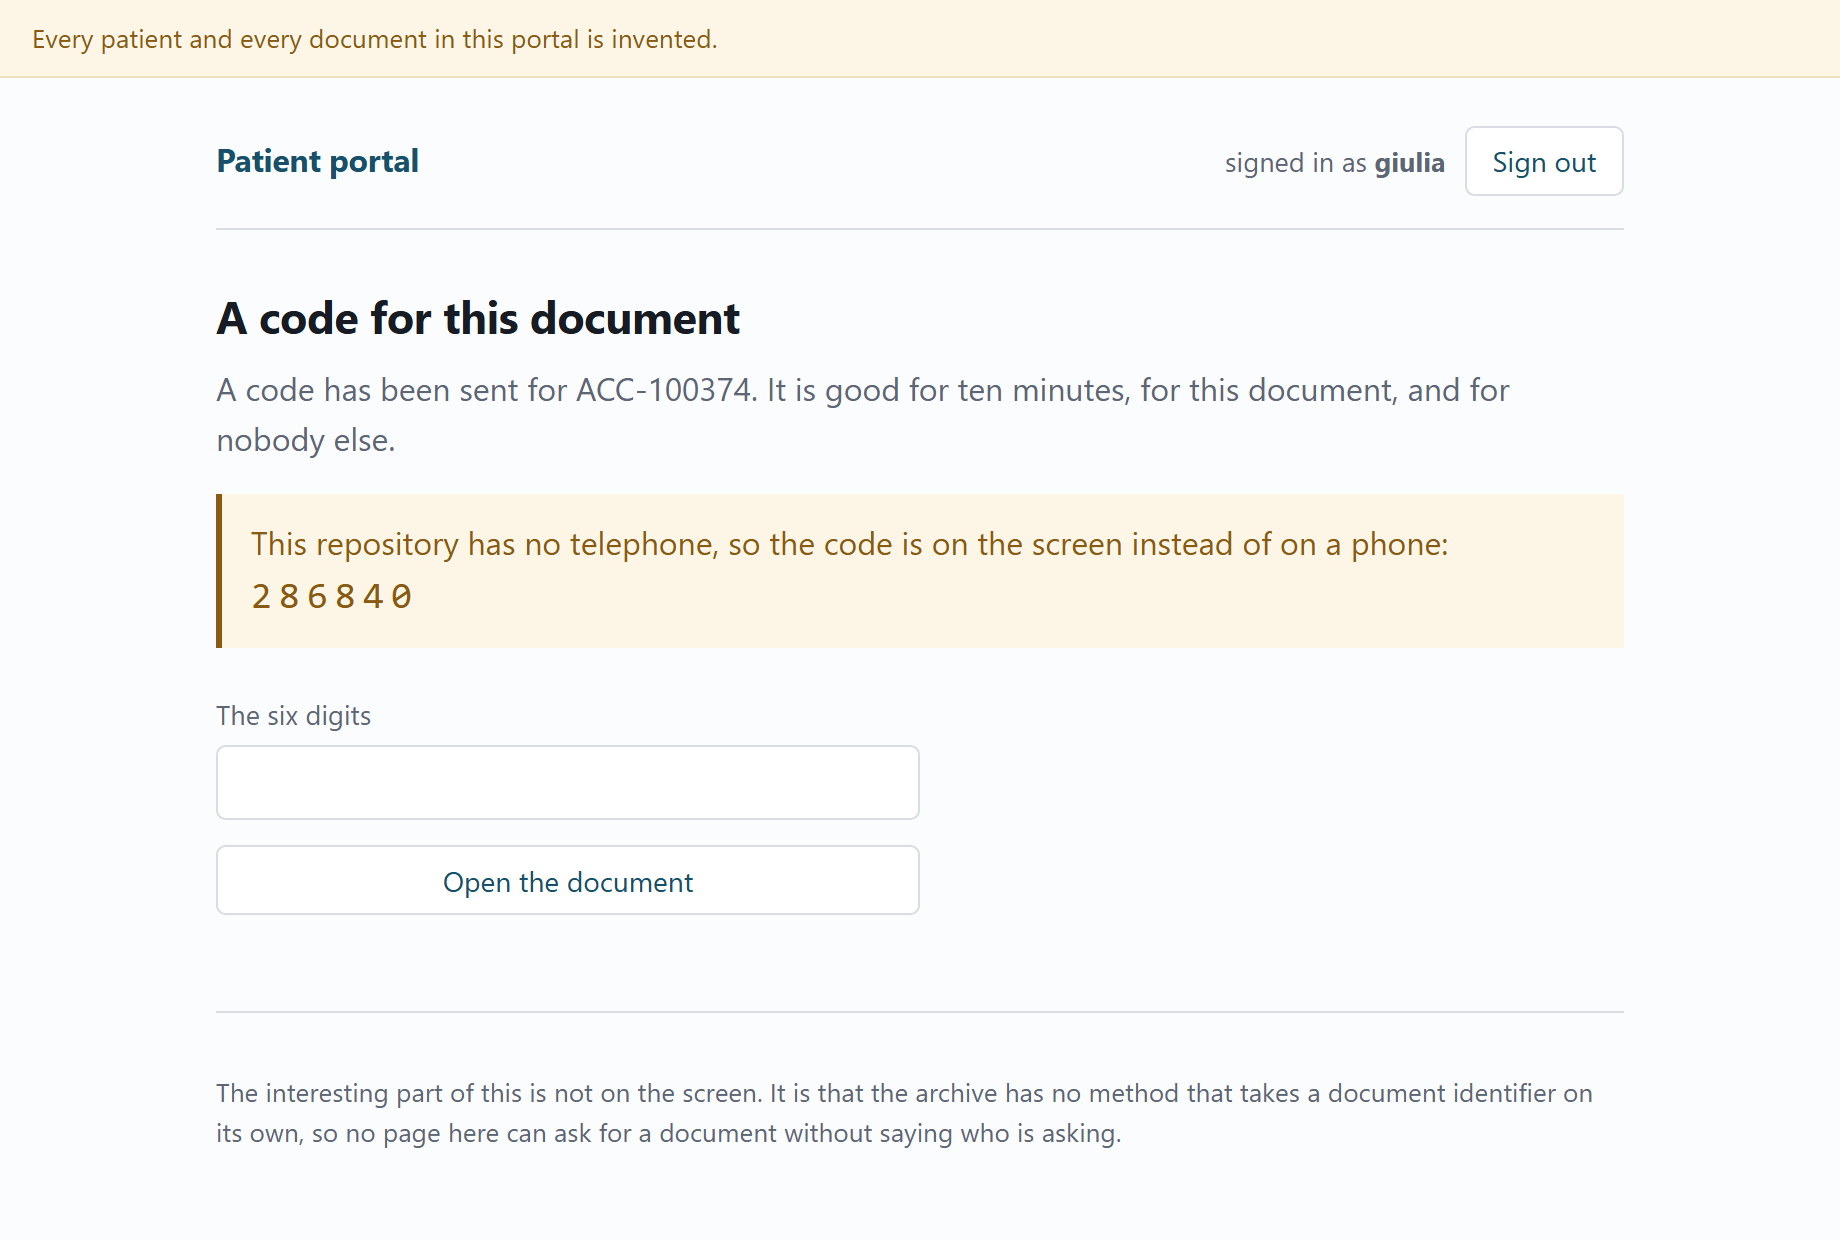
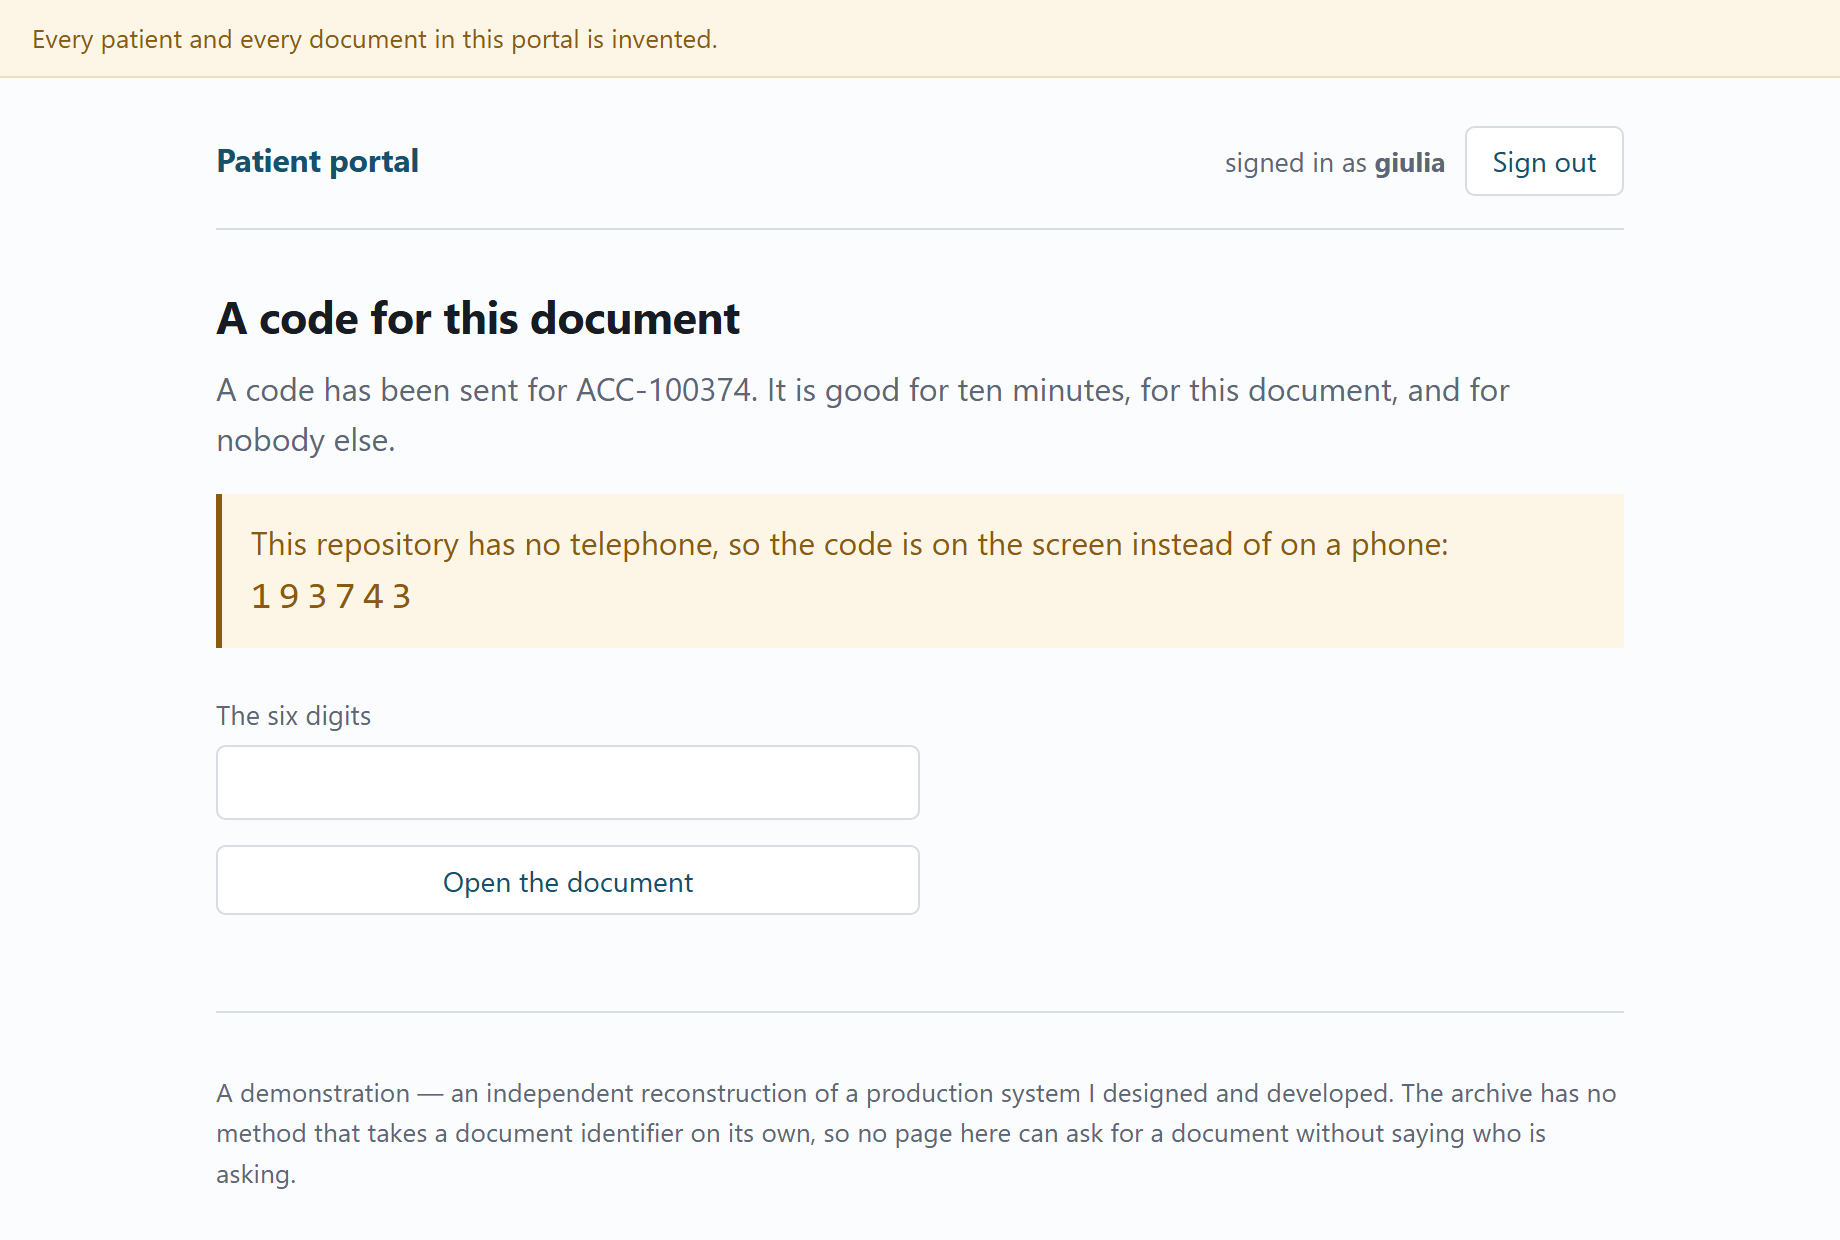
What this reconstructs, and what is not in it
The work was here and its origin was not. This adds the notice: a
reconstruction of a production system, rebuilt because confidentiality and
intellectual property keep the original out of a public repository, with newly
written code and invented data.

The same notice stands in every repository in this portfolio, character for
character, and a check compares them rather than trusting that they still
match. A block nobody compares has drifted by the third edit, and reading it
does not catch that.

Where there is a page to open, the short form of it joins the footer note about
the invented data rather than adding a second one: somebody arriving from a
direct link never sees this file.

Changed region(s): [[0.1239, 0.8581, 0.8674, 0.95], [0.1239, 0.4597, 0.2168, 0.4903]]

diff --git a/README.md b/README.md
@@ -375,4 +375,17 @@ real accession numbers and no real reports. What is kept is the shape of the
 problem and the four mistakes, which were real, and one of which handed
 documents to whoever asked for them by number.
 
+## Production reconstruction
+
+This repository is an independent reconstruction of a production system I
+designed and developed.
+
+Confidentiality and intellectual property constraints mean the original cannot
+be published. It was rebuilt from scratch so it could be shown and run,
+preserving the core architecture, workflows and technical challenges of the
+production solution, with newly written code and fictional data.
+
+No proprietary source code, confidential data or client assets from the
+original system are included in this repository.
+
 MIT licensed. See [LICENSE](LICENSE).
